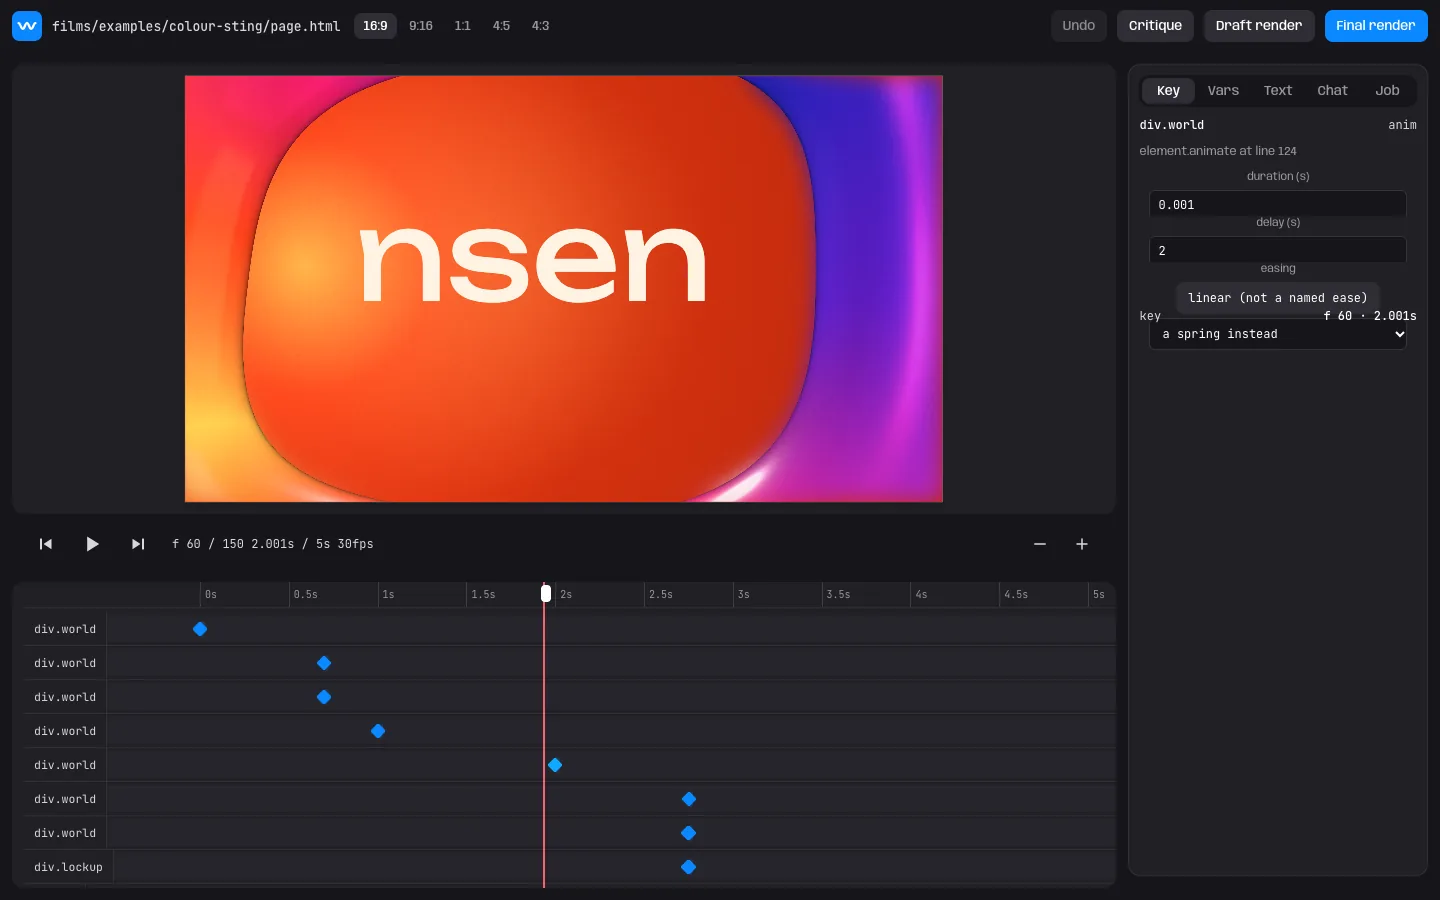
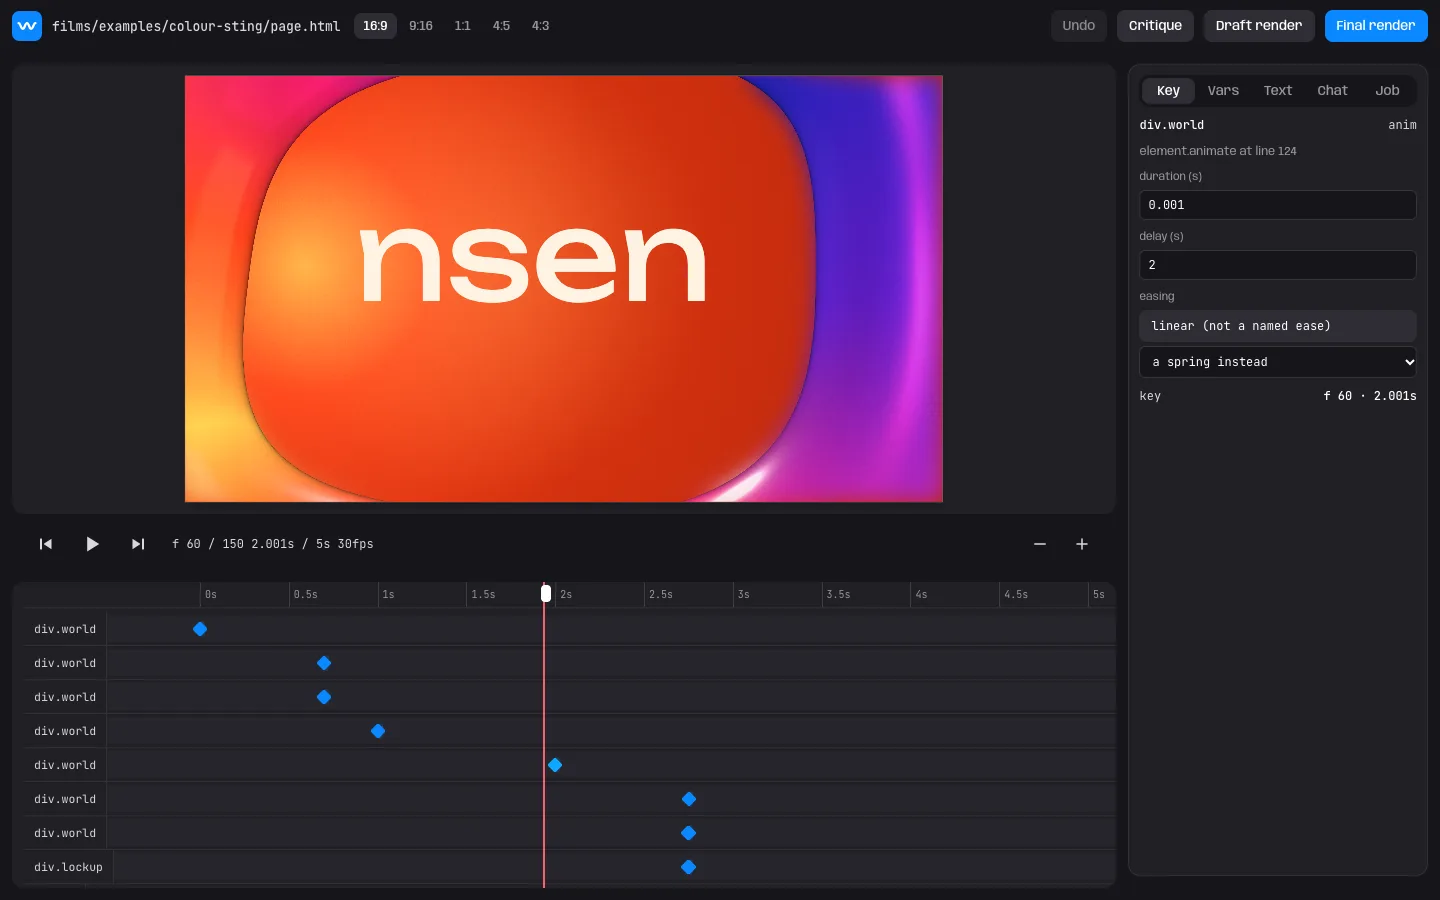
one Chrome per install: renders launch puppeteer-core with the pinned build and fetch it on first use, so npm install downloads none; studio Key tab fields grow to fit their label and input instead of overlapping in a 36px box

diff --git a/studio/ui/page-studio.css b/studio/ui/page-studio.css
@@ -43,7 +43,7 @@
  #rail{flex:none;width:var(--rail);background:var(--panel);border-radius:var(--r-out);display:flex;flex-direction:column;min-height:0;padding:10px;gap:10px}
  #tabs button{flex:1;padding:0 4px}
  .tabbody{flex:1;min-height:0;overflow:auto;display:flex;flex-direction:column;gap:10px;scrollbar-width:thin;scrollbar-color:var(--raised) transparent}
- .fld{display:flex;flex-direction:column;gap:4px} .fld>span{font-size:11px;color:var(--ink-3)}
+ .fld{display:flex;flex-direction:column;align-items:stretch;gap:4px;height:auto;padding:0;background:none} .fld>span{font-size:11px;color:var(--ink-3)}
  .fld .line{display:flex;gap:6px;align-items:center}
  .note{margin:0;color:var(--ink-3);font-size:12px}
  .kv{display:flex;justify-content:space-between;gap:8px;font:12px var(--mono);color:var(--ink-2)} .kv b{color:var(--ink);font-weight:500}
